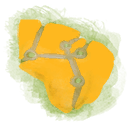
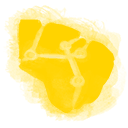
change relic highlight color

diff --git a/components/WotwTracker/View/ResourceTimer.vue b/components/WotwTracker/View/ResourceTimer.vue
@@ -323,7 +323,7 @@ export default {
 
       &.highlight,
       .highlight {
-        color: #feb81f
+        color: #ffd300
       }
 
       .small {
